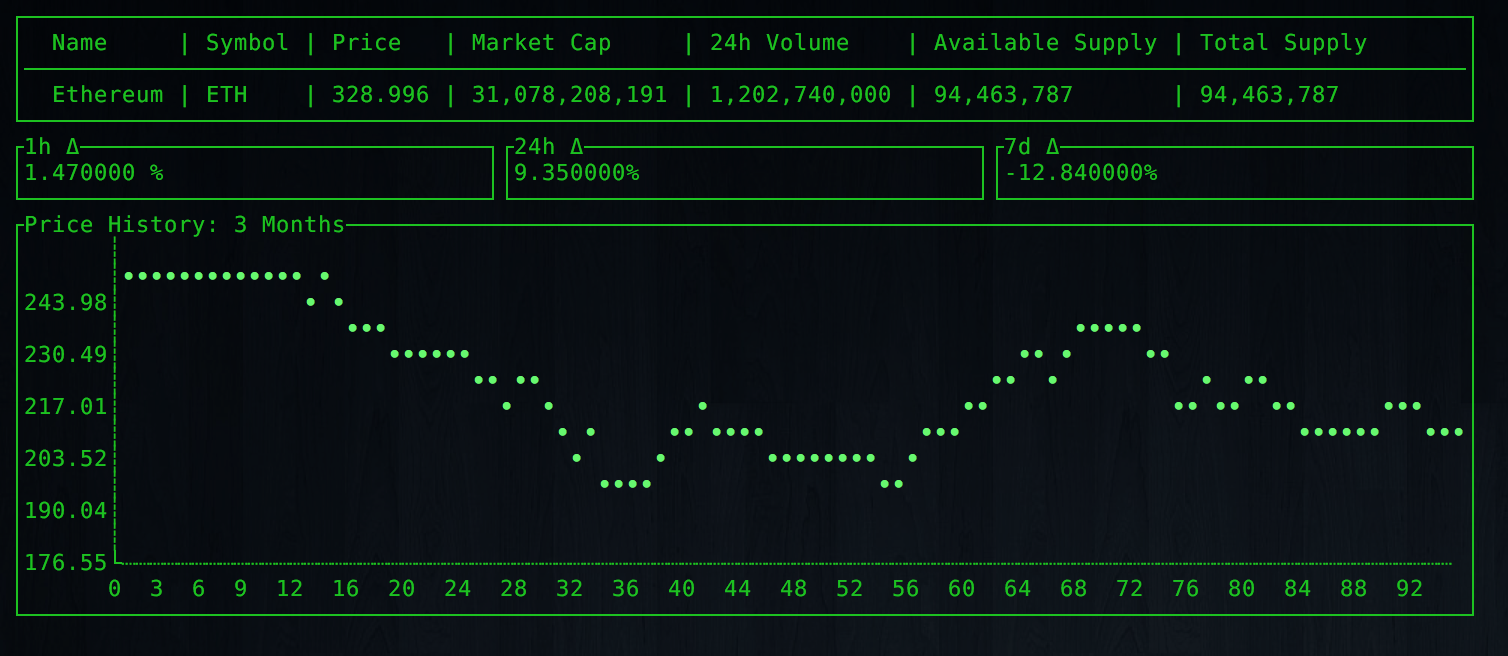
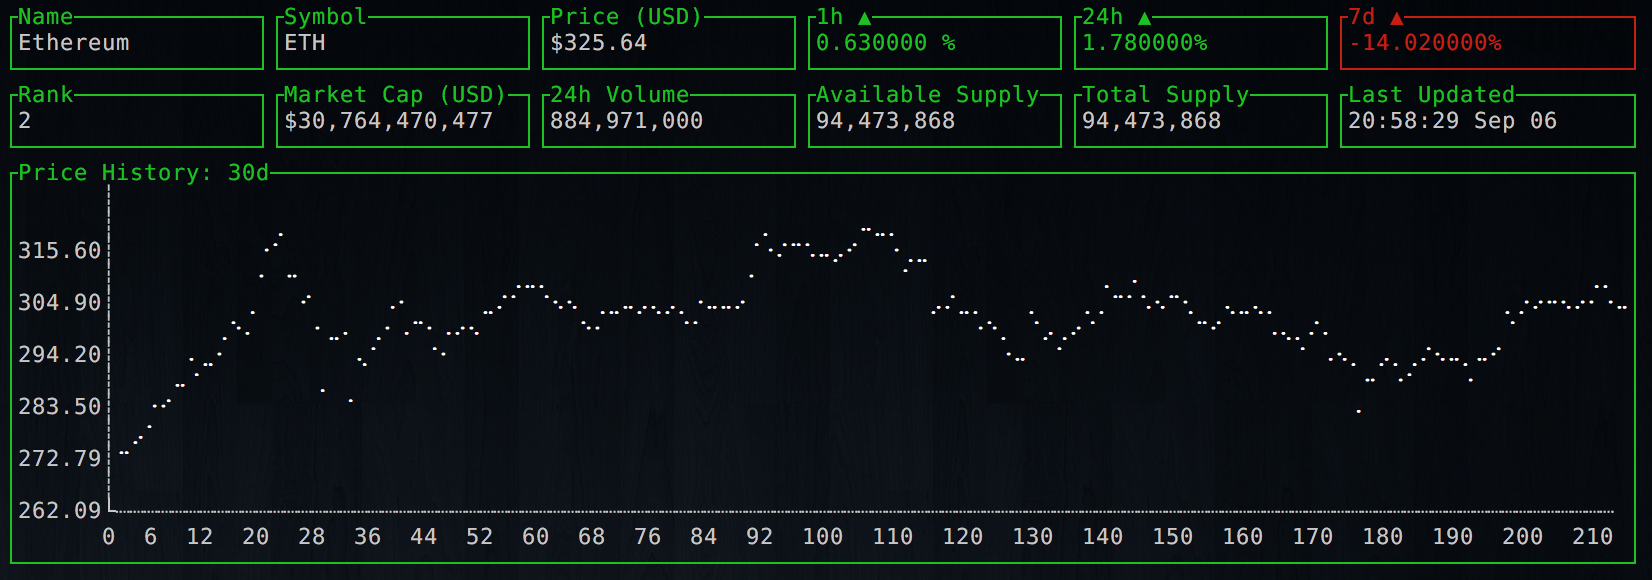
format

diff --git a/cryptodash/main.go b/cryptodash/main.go
@@ -22,14 +22,17 @@ func Render(coin string, dateRange string) {
   }
 
   if dateRange == "" {
-    dateRange = "30d"
+    dateRange = "7d"
   }
 
-  var oneYear int64 = (59 * 60 * 24 * 365)
-  var threeMonths int64 = (59 * 60 * 24 * 90)
-  var oneMonth int64 = (60 * 60 * 24 * 30)
-  var oneWeek int64 = (60 * 60 * 24 * 7)
-  var oneDay int64 = (60 * 60 * 24)
+  var (
+    oneDay int64 = 60 * 60 * 24
+    oneWeek int64 = oneDay * 7
+    oneMonth int64 = oneDay * 30
+    threeMonths int64 = oneDay * 90
+    oneYear int64 = oneDay * 365
+  )
+
   now := time.Now()
   secs := now.Unix()
   start := secs - oneMonth
@@ -47,8 +50,19 @@ func Render(coin string, dateRange string) {
     start = secs - oneYear
   }
 
-  coinInfo, _ := coinApi.GetCoinData(coin)
-  graphData, _ := coinApi.GetCoinGraphData(coin, start, end)
+  coinInfo, err := coinApi.GetCoinData(coin)
+
+  if err != nil {
+    fmt.Println(err)
+    return
+  }
+
+  graphData, err := coinApi.GetCoinGraphData(coin, start, end)
+
+  if err != nil {
+    fmt.Println(err)
+    return
+  }
 
   sinps := (func() []float64 {
     n := len(graphData.PriceUsd)
@@ -59,33 +73,17 @@ func Render(coin string, dateRange string) {
     return ps
   })()
 
-  rows1 := [][]string{
-    []string{"Name", "Symbol", "Price", "Market Cap", "24h Volume", "Available Supply", "Total Supply"},
-    []string{coinInfo.Name, coinInfo.Symbol, humanize.Commaf(coinInfo.PriceUsd), humanize.Commaf(coinInfo.MarketCapUsd), humanize.Commaf(coinInfo.Usd24hVolume), humanize.Commaf(coinInfo.AvailableSupply), humanize.Commaf(coinInfo.TotalSupply)},
-  }
-
-  table1 := ui.NewTable()
-  table1.Rows = rows1
-  table1.FgColor = ui.ColorGreen
-  table1.BgColor = ui.ColorDefault
-  table1.BorderFg = ui.ColorGreen
-  table1.Y = 0
-  table1.X = 0
-  table1.Width = 100
-  table1.Height = 5
-
   chartTitle := "Price History"
-  lc2 := ui.NewLineChart()
-  lc2.BorderLabel = fmt.Sprintf("%s: %s", chartTitle, dateRange)
-  lc2.Mode = "dot"
-  lc2.Data = sinps[4:]
-  lc2.Width = 100
-  lc2.Height = 16
-  lc2.X = 0
-  lc2.Y = 7
-  lc2.AxesColor = ui.ColorGreen
-  lc2.LineColor = ui.ColorGreen | ui.AttrBold
-  lc2.BorderFg = ui.ColorGreen
+  lc1 := ui.NewLineChart()
+  lc1.BorderLabel = fmt.Sprintf("%s: %s", chartTitle, dateRange)
+  lc1.Data = sinps
+  lc1.Width = 100
+  lc1.Height = 16
+  lc1.X = 0
+  lc1.Y = 7
+  lc1.AxesColor = ui.ColorWhite
+  lc1.LineColor = ui.ColorWhite | ui.AttrBold
+  lc1.BorderFg = ui.ColorGreen
 
   par0 := ui.NewPar(fmt.Sprintf("%f %%", coinInfo.PercentChange1h))
   par0.Height = 3
@@ -93,7 +91,13 @@ func Render(coin string, dateRange string) {
   par0.Y = 1
   par0.TextFgColor = ui.ColorGreen
   par0.BorderLabel = "1h ▲"
+  par0.BorderLabelFg = ui.ColorGreen
   par0.BorderFg = ui.ColorGreen
+  if coinInfo.PercentChange1h < 0 {
+    par0.TextFgColor = ui.ColorRed
+    par0.BorderFg = ui.ColorRed
+    par0.BorderLabelFg = ui.ColorRed
+  }
 
   par1 := ui.NewPar(fmt.Sprintf("%f%%", coinInfo.PercentChange24h))
   par1.Height = 3
@@ -102,6 +106,11 @@ func Render(coin string, dateRange string) {
   par1.TextFgColor = ui.ColorGreen
   par1.BorderLabel = "24h ▲"
   par1.BorderFg = ui.ColorGreen
+  if coinInfo.PercentChange24h < 0 {
+    par1.TextFgColor = ui.ColorRed
+    par1.BorderFg = ui.ColorRed
+    par1.BorderLabelFg = ui.ColorRed
+  }
 
   par2 := ui.NewPar(fmt.Sprintf("%f%%", coinInfo.PercentChange7d))
   par2.Height = 3
@@ -110,6 +119,91 @@ func Render(coin string, dateRange string) {
   par2.TextFgColor = ui.ColorGreen
   par2.BorderLabel = "7d ▲"
   par2.BorderFg = ui.ColorGreen
+  if coinInfo.PercentChange7d < 0 {
+    par2.TextFgColor = ui.ColorRed
+    par2.BorderFg = ui.ColorRed
+    par2.BorderLabelFg = ui.ColorRed
+  }
+
+  par3 := ui.NewPar(fmt.Sprintf("%s", coinInfo.Name))
+  par3.Height = 3
+  par3.Width = 20
+  par3.Y = 1
+  par3.TextFgColor = ui.ColorWhite
+  par3.BorderLabel = "Name"
+  par3.BorderFg = ui.ColorGreen
+
+  par4 := ui.NewPar(fmt.Sprintf("$%s", humanize.Commaf(coinInfo.PriceUsd)))
+  par4.Height = 3
+  par4.Width = 20
+  par4.Y = 1
+  par4.TextFgColor = ui.ColorWhite
+  par4.BorderLabel = "Price (USD)"
+  par4.BorderFg = ui.ColorGreen
+
+  par5 := ui.NewPar(fmt.Sprintf("%s", coinInfo.Symbol))
+  par5.Height = 3
+  par5.Width = 20
+  par5.Y = 1
+  par5.TextFgColor = ui.ColorWhite
+  par5.BorderLabel = "Symbol"
+  par5.BorderFg = ui.ColorGreen
+
+  par6 := ui.NewPar(humanize.Comma(int64(coinInfo.Rank)))
+  par6.Height = 3
+  par6.Width = 20
+  par6.Y = 1
+  par6.TextFgColor = ui.ColorWhite
+  par6.BorderLabel = "Rank"
+  par6.BorderFg = ui.ColorGreen
+
+  par7 := ui.NewPar(fmt.Sprintf("$%s", humanize.Commaf(coinInfo.MarketCapUsd)))
+  par7.Height = 3
+  par7.Width = 20
+  par7.Y = 1
+  par7.TextFgColor = ui.ColorWhite
+  par7.BorderLabel = "Market Cap (USD)"
+  par7.BorderFg = ui.ColorGreen
+
+  par8 := ui.NewPar(humanize.Commaf(coinInfo.Usd24hVolume))
+  par8.Height = 3
+  par8.Width = 20
+  par8.Y = 1
+  par8.TextFgColor = ui.ColorWhite
+  par8.BorderLabel = "24h Volume"
+  par8.BorderFg = ui.ColorGreen
+
+  par9 := ui.NewPar(humanize.Commaf(coinInfo.AvailableSupply))
+  par9.Height = 3
+  par9.Width = 20
+  par9.Y = 1
+  par9.TextFgColor = ui.ColorWhite
+  par9.BorderLabel = "Available Supply"
+  par9.BorderFg = ui.ColorGreen
+
+  par10 := ui.NewPar(humanize.Commaf(coinInfo.TotalSupply))
+  par10.Height = 3
+  par10.Width = 20
+  par10.Y = 1
+  par10.TextFgColor = ui.ColorWhite
+  par10.BorderLabel = "Total Supply"
+  par10.BorderFg = ui.ColorGreen
+
+  /*
+  unix, err := strconv.ParseInt(coinInfo.LastUpdated, 10, 64)
+
+  if err != nil {
+      panic(err)
+  }
+  */
+
+  par11 := ui.NewPar(time.Unix(1504756709, 0).Format("15:04:05 Jan 02"))
+  par11.Height = 3
+  par11.Width = 20
+  par11.Y = 1
+  par11.TextFgColor = ui.ColorWhite
+  par11.BorderLabel = "Last Updated"
+  par11.BorderFg = ui.ColorGreen
 
   // reset
   ui.Body.Rows = ui.Body.Rows[:0]
@@ -117,15 +211,23 @@ func Render(coin string, dateRange string) {
   // add grid rows and columns
   ui.Body.AddRows(
     ui.NewRow(
-      ui.NewCol(12, 0, table1),
+      ui.NewCol(2, 0, par3),
+      ui.NewCol(2, 0, par5),
+      ui.NewCol(2, 0, par4),
+      ui.NewCol(2, 0, par0),
+      ui.NewCol(2, 0, par1),
+      ui.NewCol(2, 0, par2),
     ),
     ui.NewRow(
-      ui.NewCol(4, 0, par0),
-      ui.NewCol(4, 0, par1),
-      ui.NewCol(4, 0, par2),
+      ui.NewCol(2, 0, par6),
+      ui.NewCol(2, 0, par7),
+      ui.NewCol(2, 0, par8),
+      ui.NewCol(2, 0, par9),
+      ui.NewCol(2, 0, par10),
+      ui.NewCol(2, 0, par11),
     ),
     ui.NewRow(
-      ui.NewCol(12, 0, lc2),
+      ui.NewCol(12, 0, lc1),
     ),
   )
 

diff --git a/README.md b/README.md
@@ -15,14 +15,20 @@ go get -u github.com/miguelmota/cryptodash/cryptodash
 # Usage
 
 ```bash
-$ cryptodash {coin} [daterange {1d | 7d | 30d | 90d | 1y}]
+$ cryptodash {coin} [chart date range {1d | 7d | 30d | 90d | 1y}]
 ```
 
-Example
+Example for getting latest ethereum info, and chart data for last 30 days.
 
 ```bash
 $ cryptodash ethereum 30d
 ```
+
+## Notes
+
+- Data gets polled once every minute.
+
+- Data is from [Coin Market Cap](https://coinmarketcap.com/)
 
 # License
 
